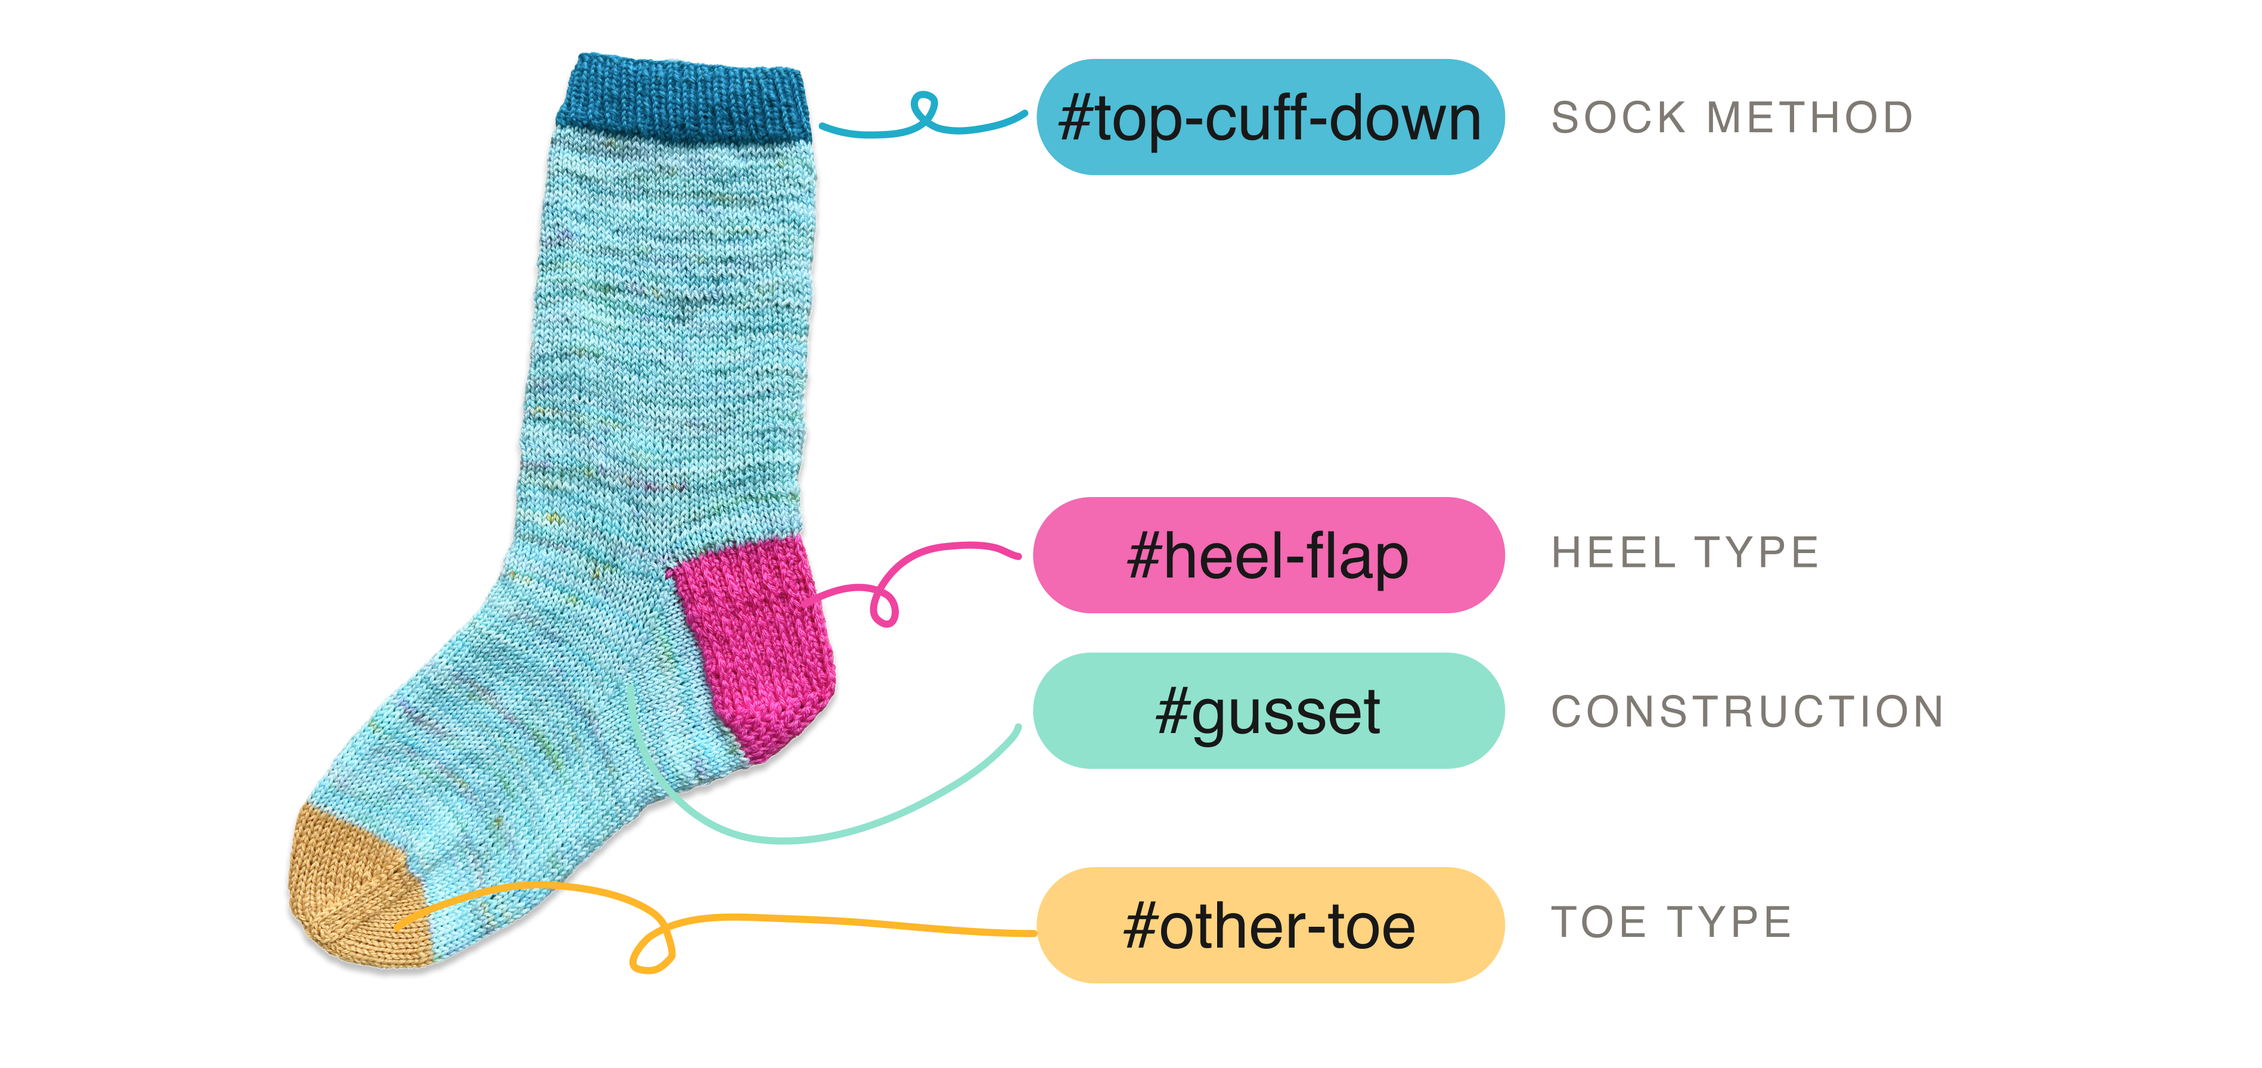
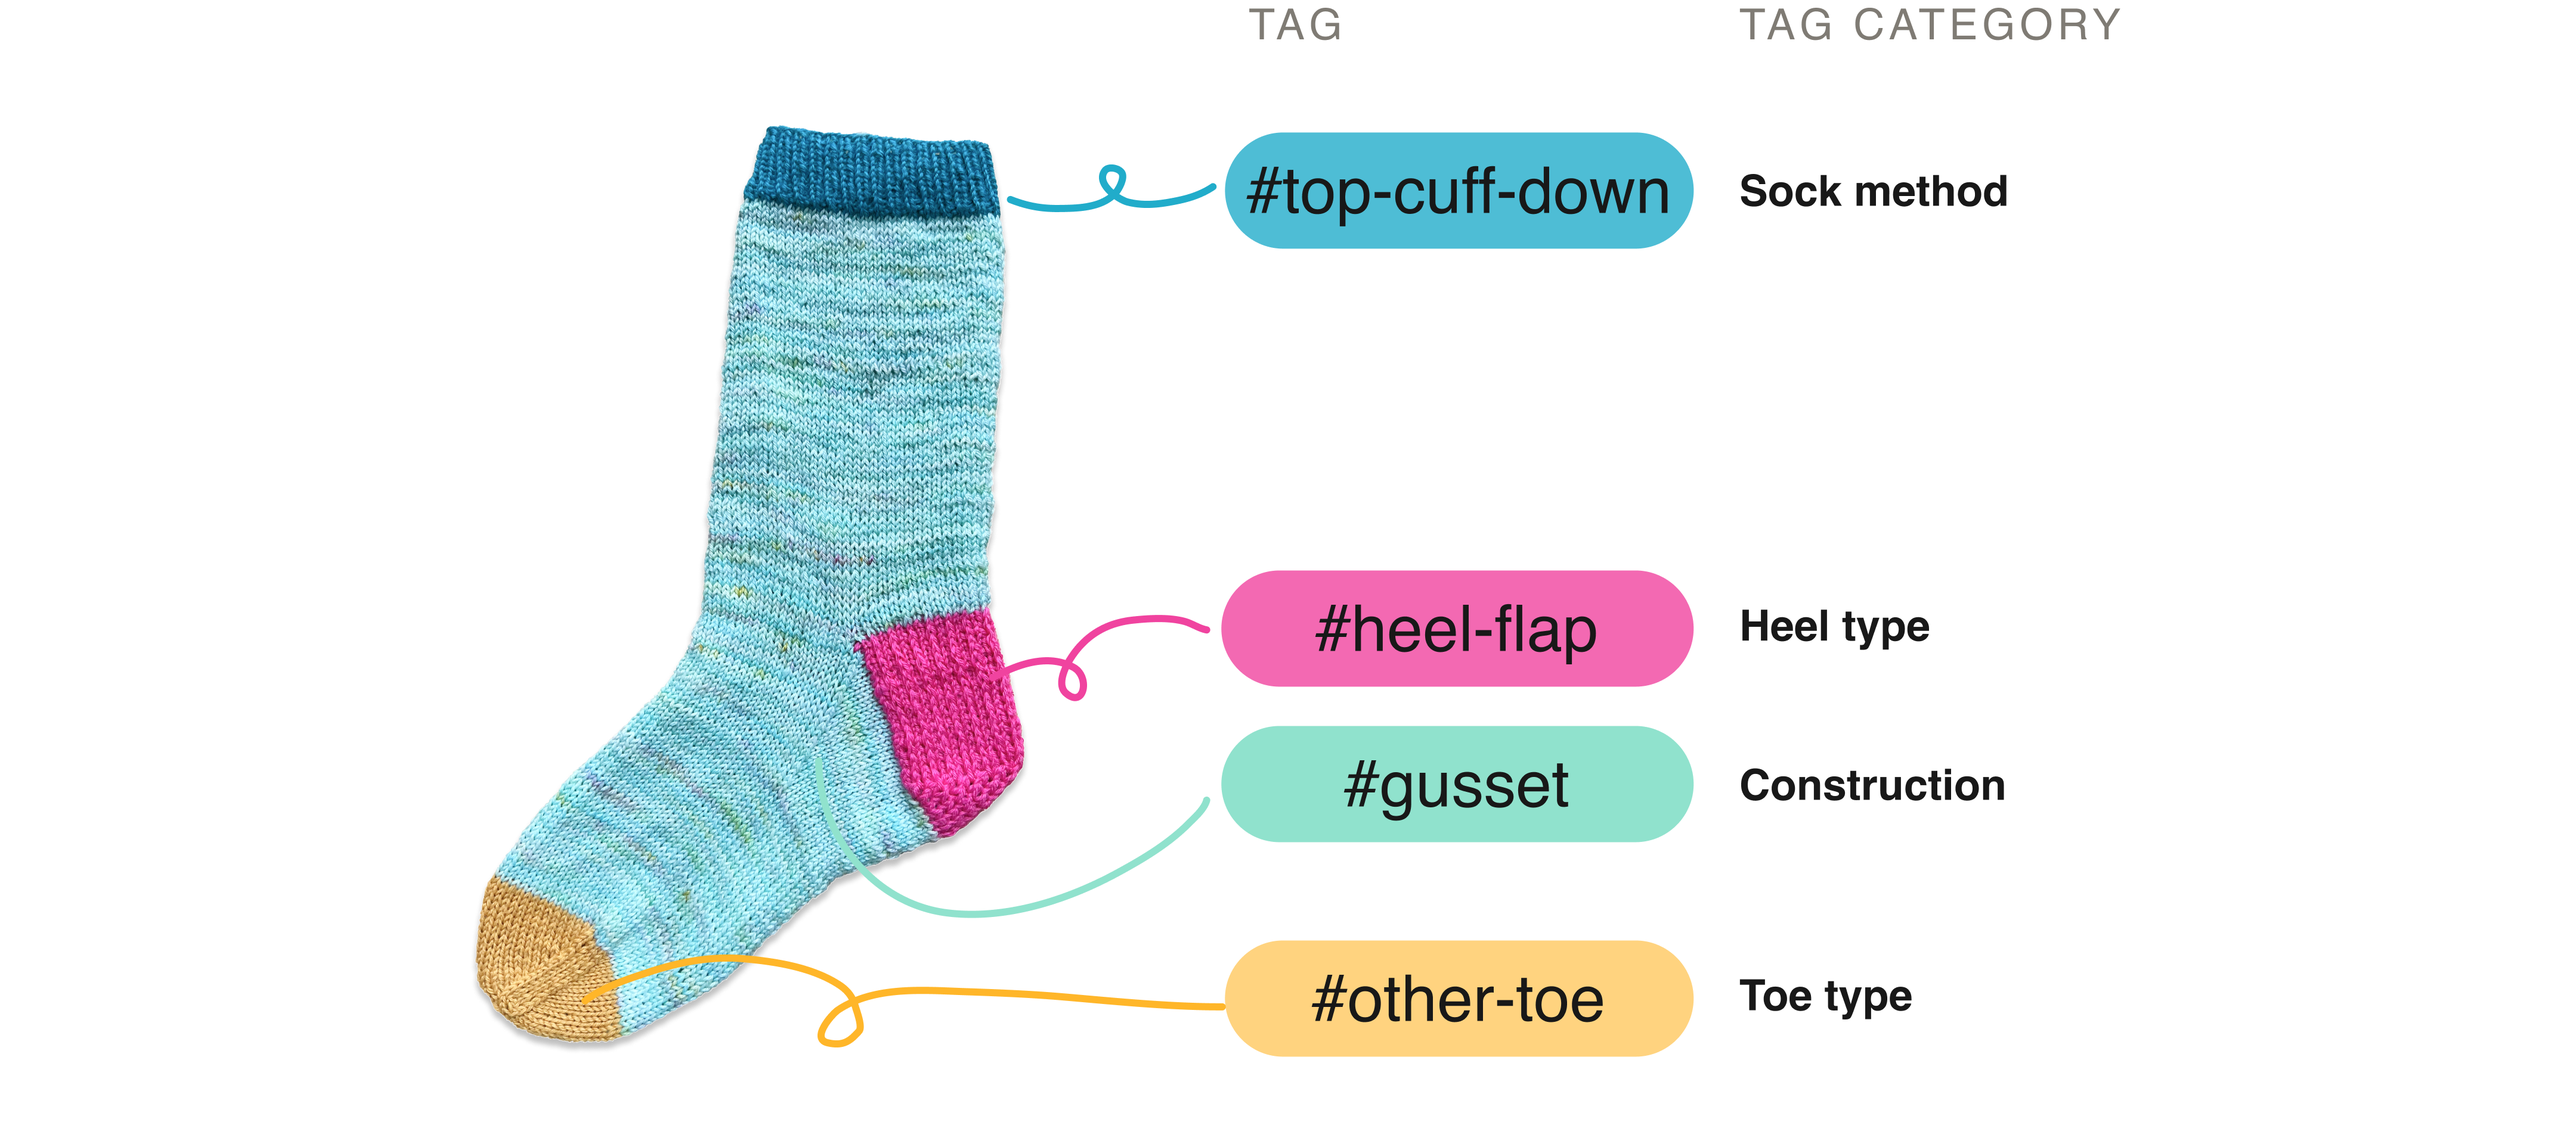
replace header image

Changed region(s): [[0.1244, 0.0, 0.8706, 0.9375], [0.6841, 0.0, 0.8395, 0.0312]]

diff --git a/src/App.svelte b/src/App.svelte
@@ -1,34 +1,42 @@
 <script>
 	import StackedChart from './StackedChart.svelte';
-	import Matrix from './Matrix.svelte';
 	import ImageChart from './ImageChart.svelte';
 	import Separator from './Separator.svelte';
 </script>
 
-<img
-	src="img/Header-Desktop.png"
-	alt="Are socks really that hard to knit?"
-	style="width: 100%"
-/>
 <main>
+	<h1 id="title">Are socks <i>really</i><br /> that hard to knit?</h1>
+	<ImageChart
+		imgurl="img/sock-hero.png"
+		title=""
+	/>
+	<h2 id="subtitle">
+		An analysis of over 50,000 sock patterns to debunk common sock knitting
+		fears
+	</h2>
+	<h3 id="author">By Luisa Vasquez</h3>
 	<div class="story">
 		<p>
 			I have been knitting ever since I was a kid. I've made many many scarves
-			and attempted (and abandoned) several sweaters. I found scarves to be
-			great gifts but quite boring to knit. Sweaters take a long time and I
-			always lost interest early on.
+			and attempted (and abandoned) several sweaters. I'm an adventurous maker
+			but it took me years to work up the courage to try knitting a pair of
+			socks.
 		</p>
 		<p>
-			I remembered my friend's grandma knitting socks in the corner whenever she
-			would visit, <strong
-				>but I'd always thought socks were too hard to try.</strong
-			> Last year I saw someone on Instagram make a pair of socks and I was intrigued.
-			I finally decided to give it a go and I was hooked!
+			Last year I saw someone on Instagram make a pair of socks and I was
+			intrigued. I remembered my friend's grandma knitting socks in the corner
+			whenever she would visit when we were kids. She was such a pro she would
+			make them from memory and <strong
+				>I'd written socks off as too hard for me to try.</strong
+			>
 		</p>
 		<p>
-			Having a hand-knit pair of socks was deeply satisfying. The project was
-			portable enough to bring with me everywhere and each new piece (the cuff,
-			the heel, the toe) gave me a new skill to learn which kept me engaged.
+			When I finally decided to give it a go I was hooked! I was surprised by
+			how much I enjoyed knitting my first pair of socks. Wearing the hand-knit
+			socks was deeply satisfying — they felt so professional compared to my
+			wonky scarves. The project was portable enough to bring with me everywhere
+			and each new piece (the cuff, the heel, the toe) gave me a new skill to
+			learn which kept me engaged.
 		</p>
 		<p>
 			It made me wonder why I put off knitting socks for so long. <strong
@@ -72,9 +80,25 @@
 		<Separator />
 		<h1>Why are knitters afraid to knit socks?</h1>
 		<p>
-			I turned to reddit and asked some fellow knitters why (if at all) they
-			were afraid of knitting socks.
+			I turned to <a
+				href="https://www.reddit.com/r/knitting/comments/1bwfxh9/sock_knitting_myths/"
+				target="_blank">reddit</a
+			> and asked some fellow knitters why (if at all) they were afraid of knitting
+			socks.
 		</p>
+		<p>Four key <strong>fears</strong> emerged from the reddit conversation:</p>
+		<ol>
+			<li>Turning the heel</li>
+			<li>Double Pointed Needles (DPNs)</li>
+			<li>Thin Yarn</li>
+			<li>Knitting two of the same thing</li>
+		</ol>
+		<p>
+			I'm going to use data to bust those myths and show that while socks
+			definitely require some patience while learning (like any new skill), they
+			are certainly not impossible and can be a great joy.
+		</p>
+		<Separator type="subsection" />
 	</div>
 
 	<div class="story">
@@ -85,15 +109,38 @@
 			description="The general “fear” around socks usually seems to relate to the so-called “heel-turn”. The most popular replies to the question of sock fear had to do with how media portrayed socks and how those memories made sock heels seem difficult."
 		/>
 		<span class="spacer-medium" />
+		<p>
+			Ravelry uses tags to help pattern authors mark their patterns. These tags
+			mark the different sock techniques, such as the type of heel, knitting
+			direction, stitch patterns and more.
+		</p>
+		<p>
+			I used different colors when knitting this sock to show the cuff, body,
+			heel, and toe. On Ravelry, the author of this sock pattern could use tags
+			to describe the different elements of the sock.
+		</p>
+		<ImageChart
+			title=""
+			imgurl="img/SockTagsExplainer.png"
+			description=""
+		/>
+		<p>
+			To see if heels are the hardest part of a sock, I decided to look at
+			pattern tags that describe the socks to analyze which tags contribute most
+			to difficulty.
+		</p>
+
 		<h6>Fear 1: Debunked</h6>
+
+		<ImageChart
+			title="Heels are not what make a sock difficult"
+			imgurl="img/HeelDifficulty.png"
+			description="Many knitters fear making their first pair of socks because of the dreaded “heel turn”. But patterns tagged with advanced knitting construction, colorwork, or intricate regional / ethnic patterns are more difficult on average than patterns with other tags, which suggest that sock heels are not what make a sock pattern hard."
+			makeWide={true}
+		/>
+		<Separator type="subsection" />
 	</div>
-	<ImageChart
-		title="Heels are not what make a sock difficult"
-		imgurl="img/HeelDifficulty.png"
-		description="Many knitters fear making their first pair of socks because of the dreaded “heel turn”. But patterns tagged with advanced knitting construction, colorwork, or intricate regional / ethnic patterns are more difficult on average than patterns with other tags, which suggest that sock heels are not what make a sock pattern hard."
-		makeWide={true}
-	/>
-	<Separator type="subsection" />
+
 	<div class="story">
 		<h6>Fear 2</h6>
 		<ImageChart
@@ -122,7 +169,7 @@
 		<ImageChart
 			title="DPNs are popular choice in top 20 free patterns, but are not the only option"
 			imgurl="img/VerticalNeedleMatrix.png"
-			description="Take a look at the top 20 free patterns to see which needles are recommended."
+			description="Patterns list multiple needles to indicate that knitters can choose their needle type from the suggested options. Take a look at the top 20 free patterns to see which needles are mentioned by pattern authors."
 			footnote="“No specific” means the pattern had no mention of the needle type in their instructions. If a pattern mentioned several options, like “Your choice: DPNs, Magic Loop using a 32” cable, 9” Circular.” then I included all of the listed options. For consistency in some cases, I translated “long circular” to mean “Magic Loop”."
 		/>
 		<span class="spacer-medium" />

diff --git a/src/app.css b/src/app.css
@@ -6,6 +6,7 @@ a,abbr,acronym,address,applet,article,aside,audio,b,big,blockquote,body,canvas,c
   --lightgray: #D6D2CB;
   --darkgray: #7F7B74;
   --pink: #F0439F;
+  --golden: #FFB629;
 }
 
 * {
@@ -116,14 +117,7 @@ strong {
   max-width: 50vw;
 }
 
-@media screen and (max-width: 1000px) {
-  .story {
-    display: flex;
-    flex-flow: column nowrap;
-    align-items: left;
-    max-width: 80vw;
-  }
-}
+
 
 #methods {
   background-color: var(--lightgray);
@@ -153,9 +147,49 @@ blockquote {
 }
 
 a {
-  color: var(--pink)
+  color: var(--darkgray)
 }
 
 a:visited {
   color: var(--darkgray);
+}
+
+#title {
+  color: var(--golden);
+  font-size: 6em;
+  text-align: center;
+  margin-top: 20vh;
+}
+
+#subtitle {
+  color: var(--black);
+  max-width: 600px;
+  font-weight: 100;
+  font-style: italic;
+  line-height: 1.5em;
+  text-align: center;
+}
+
+#author {
+  font-family: Helvetica, sans-serif;
+  font-size: 1.3em;
+  margin-bottom: 10vh;
+}
+
+i {
+  font-style: italic;
+  color: var(--pink);
+}
+
+@media screen and (max-width: 800px) {
+  .story {
+    display: flex;
+    flex-flow: column nowrap;
+    align-items: left;
+    max-width: 80vw;
+  }
+
+  #title {
+    font-size: 3em;
+  }
 }
